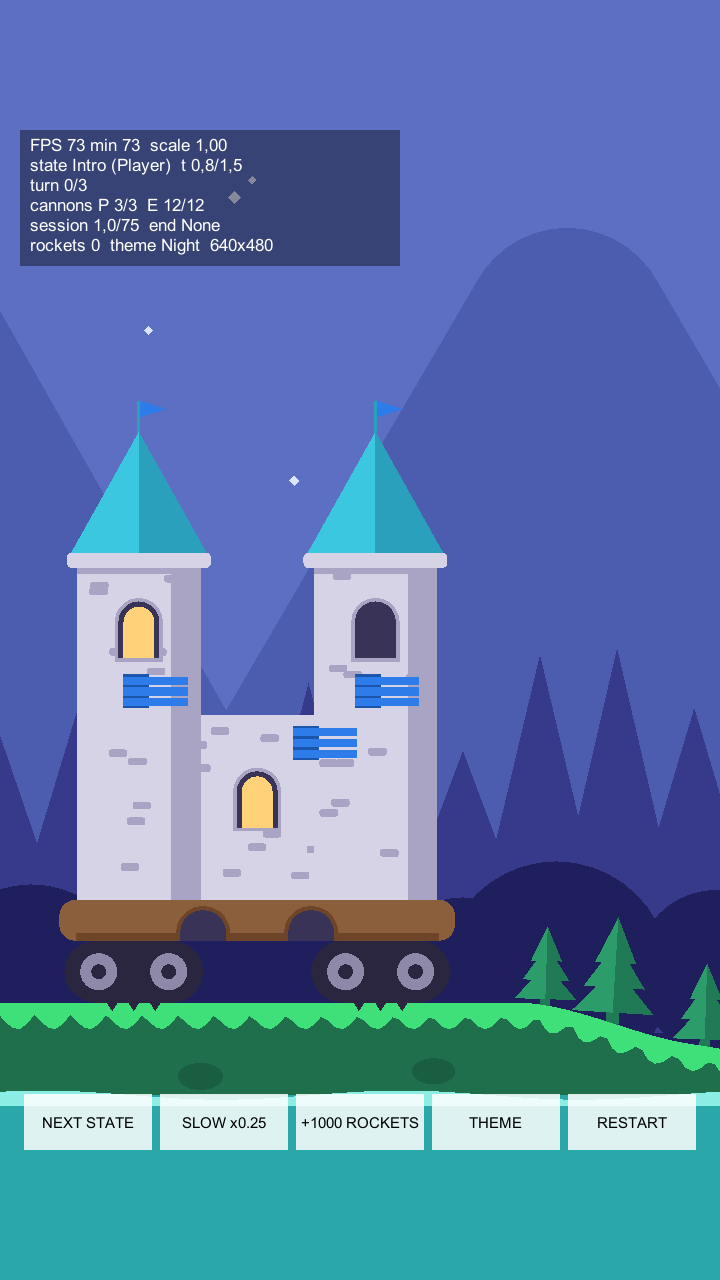
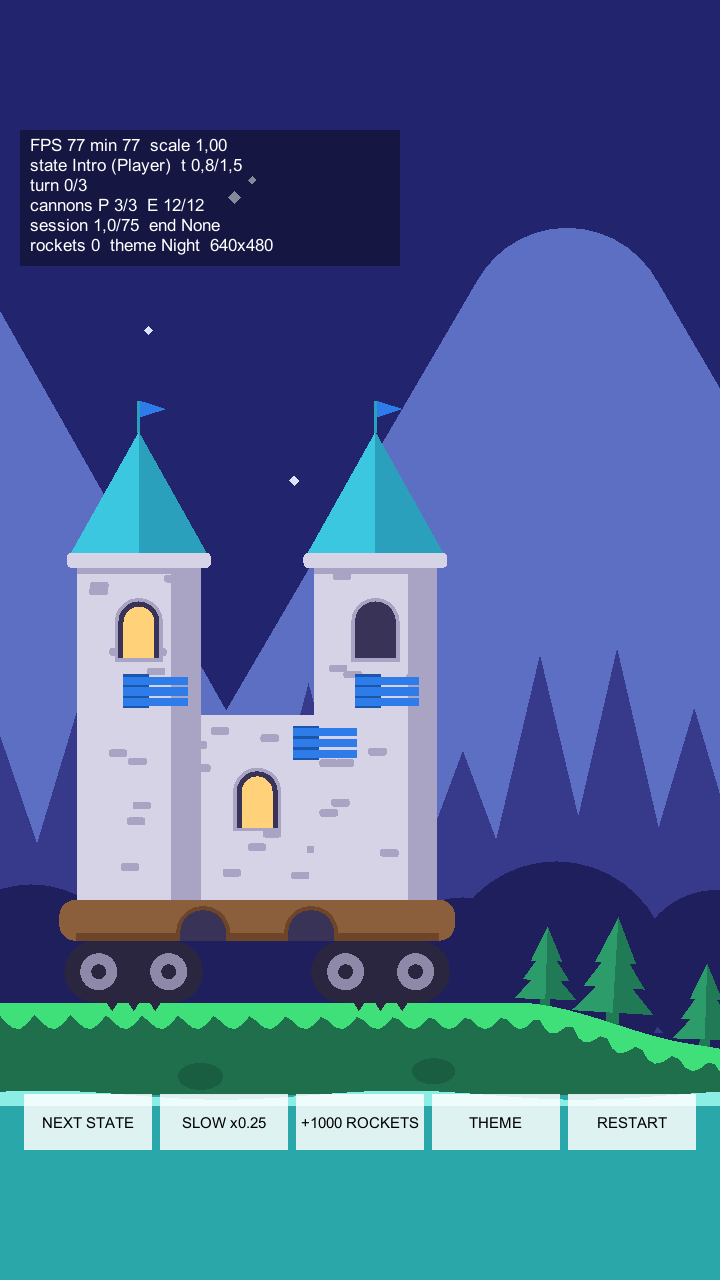
Stage 1: dark night sky by customer decision (D-023)

diff --git a/Assets/_Game/Scripts/Core/ThemePalette.cs b/Assets/_Game/Scripts/Core/ThemePalette.cs
@@ -13,7 +13,7 @@ namespace CastleDestroyers.Core
     [Serializable]
     public sealed class PaletteSet
     {
-        [Header("Фон: ступени светлоты, дальше = светлее")]
+        [Header("Фон: ступени светлоты, дальше = светлее (небо Night тёмное, D-023)")]
         public Color32 sky;
         public Color32 backgroundFar;
         public Color32 backgroundMid;
@@ -113,8 +113,8 @@ namespace CastleDestroyers.Core
         public static PaletteSet CreateNight()
         {
             PaletteSet set = new PaletteSet();
-            set.sky = Hex(0x5C6FC2);
-            set.backgroundFar = Hex(0x4C5CAE);
+            set.sky = Hex(0x23246E);
+            set.backgroundFar = Hex(0x5C6FC2);
             set.backgroundMid = Hex(0x373A8A);
             set.backgroundNear = Hex(0x1E1F5C);
             set.skyStar = Hex(0xDCE3FF);

diff --git a/Assets/_Game/Tests/Editor/CoreTests.cs b/Assets/_Game/Tests/Editor/CoreTests.cs
@@ -261,12 +261,12 @@ namespace CastleDestroyers.Tests
         }
 
         [Test]
-        public void NightBackgroundGetsLighterWithDistance()
+        public void NightLayersGetLighterWithDistanceOverDarkSky()
         {
             PaletteSet night = ThemePalette.CreateNight();
-            Assert.Greater(Brightness(night.sky), Brightness(night.backgroundFar));
             Assert.Greater(Brightness(night.backgroundFar), Brightness(night.backgroundMid));
             Assert.Greater(Brightness(night.backgroundMid), Brightness(night.backgroundNear));
+            Assert.Less(Brightness(night.sky), Brightness(night.backgroundMid), "D-023: night sky is dark");
         }
 
         [Test]

diff --git a/docs/DECISIONS.md b/docs/DECISIONS.md
@@ -106,8 +106,8 @@
 Решение: приводим к ТЗ §3.7–3.10 и кадрам ролика всё, что можно нарисовать плоскими формами: контур горы (сплайн по опорным точкам из `terrainProfile`, уточняет D-020), фестонная кромка, непрозрачная вода, силуэты замков (`GreyboxCastles`), трёхствольные пушки, бустеры с надписями (`GreyboxBoosters`), фон и декор. Кадры камеры сужены до 14 / 18 / 16 м, чтобы гора заполняла экран как в кадре 3. Пайплайн SVG → PNG, атласы, параллакс и VFX остаются на этапе 7. Код рисования замков и бустеров одноразовый и заменяется вместе с артом; геометрия мест и точки крепления пушек остаются.
 Альтернативы: оставить прямоугольники до этапа 7 (не отвечает на просьбу); начать SVG-пайплайн сейчас (забегание вперёд, требует апрува style sheet).
 
-### D-023 · 2026-10-30 · нужно подтверждение
-**Небо `Night` пока светлое (`#5C6FC2`), как требует ТЗ, хотя на скриншоте Bowmasters оно тёмное.**
-Контекст: ТЗ §3.10 и §4.2 задают правило «дальше — светлее» со ступенями до `#5C6FC2`. На `bowmasters_graveyard.jpg` и `bowmasters_city.jpg` небо тёмно-синее, а светлые только дальние горы. Из-за светлого неба `Night` выглядит как сумерки, а не ночь.
-Решение: оставлено по ТЗ, он приоритетнее референсов. Если заказчик выберет тёмное небо, меняется значение `sky` в `ThemePalette` и тест порядка светлоты для `Night`.
-Альтернатива: тёмное небо `≈ #23246E` (ближе к скриншотам, контраст замков и бустеров выше, но это отступление от буквы ТЗ).
+### D-023 · 2026-10-30 · принято (решение заказчика)
+**Небо `Night` тёмное (`#23246E`): отступление от правила ТЗ «дальше — светлее» для слоя неба.**
+Контекст: ТЗ §3.10 и §4.2 задают ступени до `#5C6FC2` на дальнем слое. На `bowmasters_graveyard.jpg` и `bowmasters_city.jpg` небо тёмно-синее, а светлые только дальние горы. Со светлым небом `Night` выглядел как сумерки, а не ночь.
+Решение: заказчик выбрал тёмное небо. Правило ступеней остаётся для слоёв-силуэтов: дальние горы получили `#5C6FC2` из ТЗ, средний и ближний планы не менялись. Пресет `Sunset` не затронут, небо в нём остаётся самым светлым.
+Альтернатива: светлое небо по букве ТЗ (отклонено заказчиком).

diff --git a/docs/reports/STAGE_01.md b/docs/reports/STAGE_01.md
@@ -55,8 +55,8 @@
 - D-020 — greybox одним мешом, контур ландшафта в конфиге.
 - D-021 — кадр камеры в метрах.
 - D-022 — доработка графики greybox без SVG и текстур.
-- D-023 — светлое ночное небо по ТЗ расходится со скриншотом Bowmasters (нужно подтверждение).
-- ТЗ не нарушено. Из ТЗ не реализовано только то, что относится к этапам 2–7 (маски, прицел, ракеты, HUD-полосы, параллакс, финальный арт).
+- D-023 — тёмное небо `Night`: решение заказчика, отступление от правила «дальше — светлее» для слоя неба.
+- Других отступлений от ТЗ нет. Из ТЗ не реализовано только то, что относится к этапам 2–7 (маски, прицел, ракеты, HUD-полосы, параллакс, финальный арт).
 
 ## Известные проблемы и долги
 - **Play Mode в окне Unity не запускался.** Проверены EditMode-тесты (включая сборку меша, FSM и камеры) и рендер кадров из editor-скрипта с debug-панелью. Нажатия на кнопки оверлея мышью и тачем проверит заказчик.
@@ -109,5 +109,7 @@
 | Чит-ракеты с градиентом от хвоста к носу | Один плоский цвет стороны (ТЗ §4.1) | `+1000 ROCKETS` |
 
 Палитра расширена: тени крыш, пушек и платформы, окна, заглушки бустеров, ёлки, луна, звёзды. Значения ассета сброшены к новым значениям из кода новой командой `Tools → Castle Destroyers → Reset Theme Palette To Defaults`. Правки цветов в инспекторе эта команда затирает.
+
+По решению заказчика небо `Night` сделано тёмным: `sky` `#23246E`, дальние горы `#5C6FC2` (D-023). Тест порядка светлоты для `Night` обновлён под это решение.
 
 Проверено: компиляция без ошибок, 100 из 100 EditMode-тестов (10 новых: сглаживание контура, скруглённые фигуры, детерминизм сборки меша, точки крепления пушек), 17 кадров просмотрены. **Не проверено:** Play Mode в окне Unity (плавность переездов с новыми кадрами камеры, нажатия на уменьшенные кнопки) и Luna-сборка.
